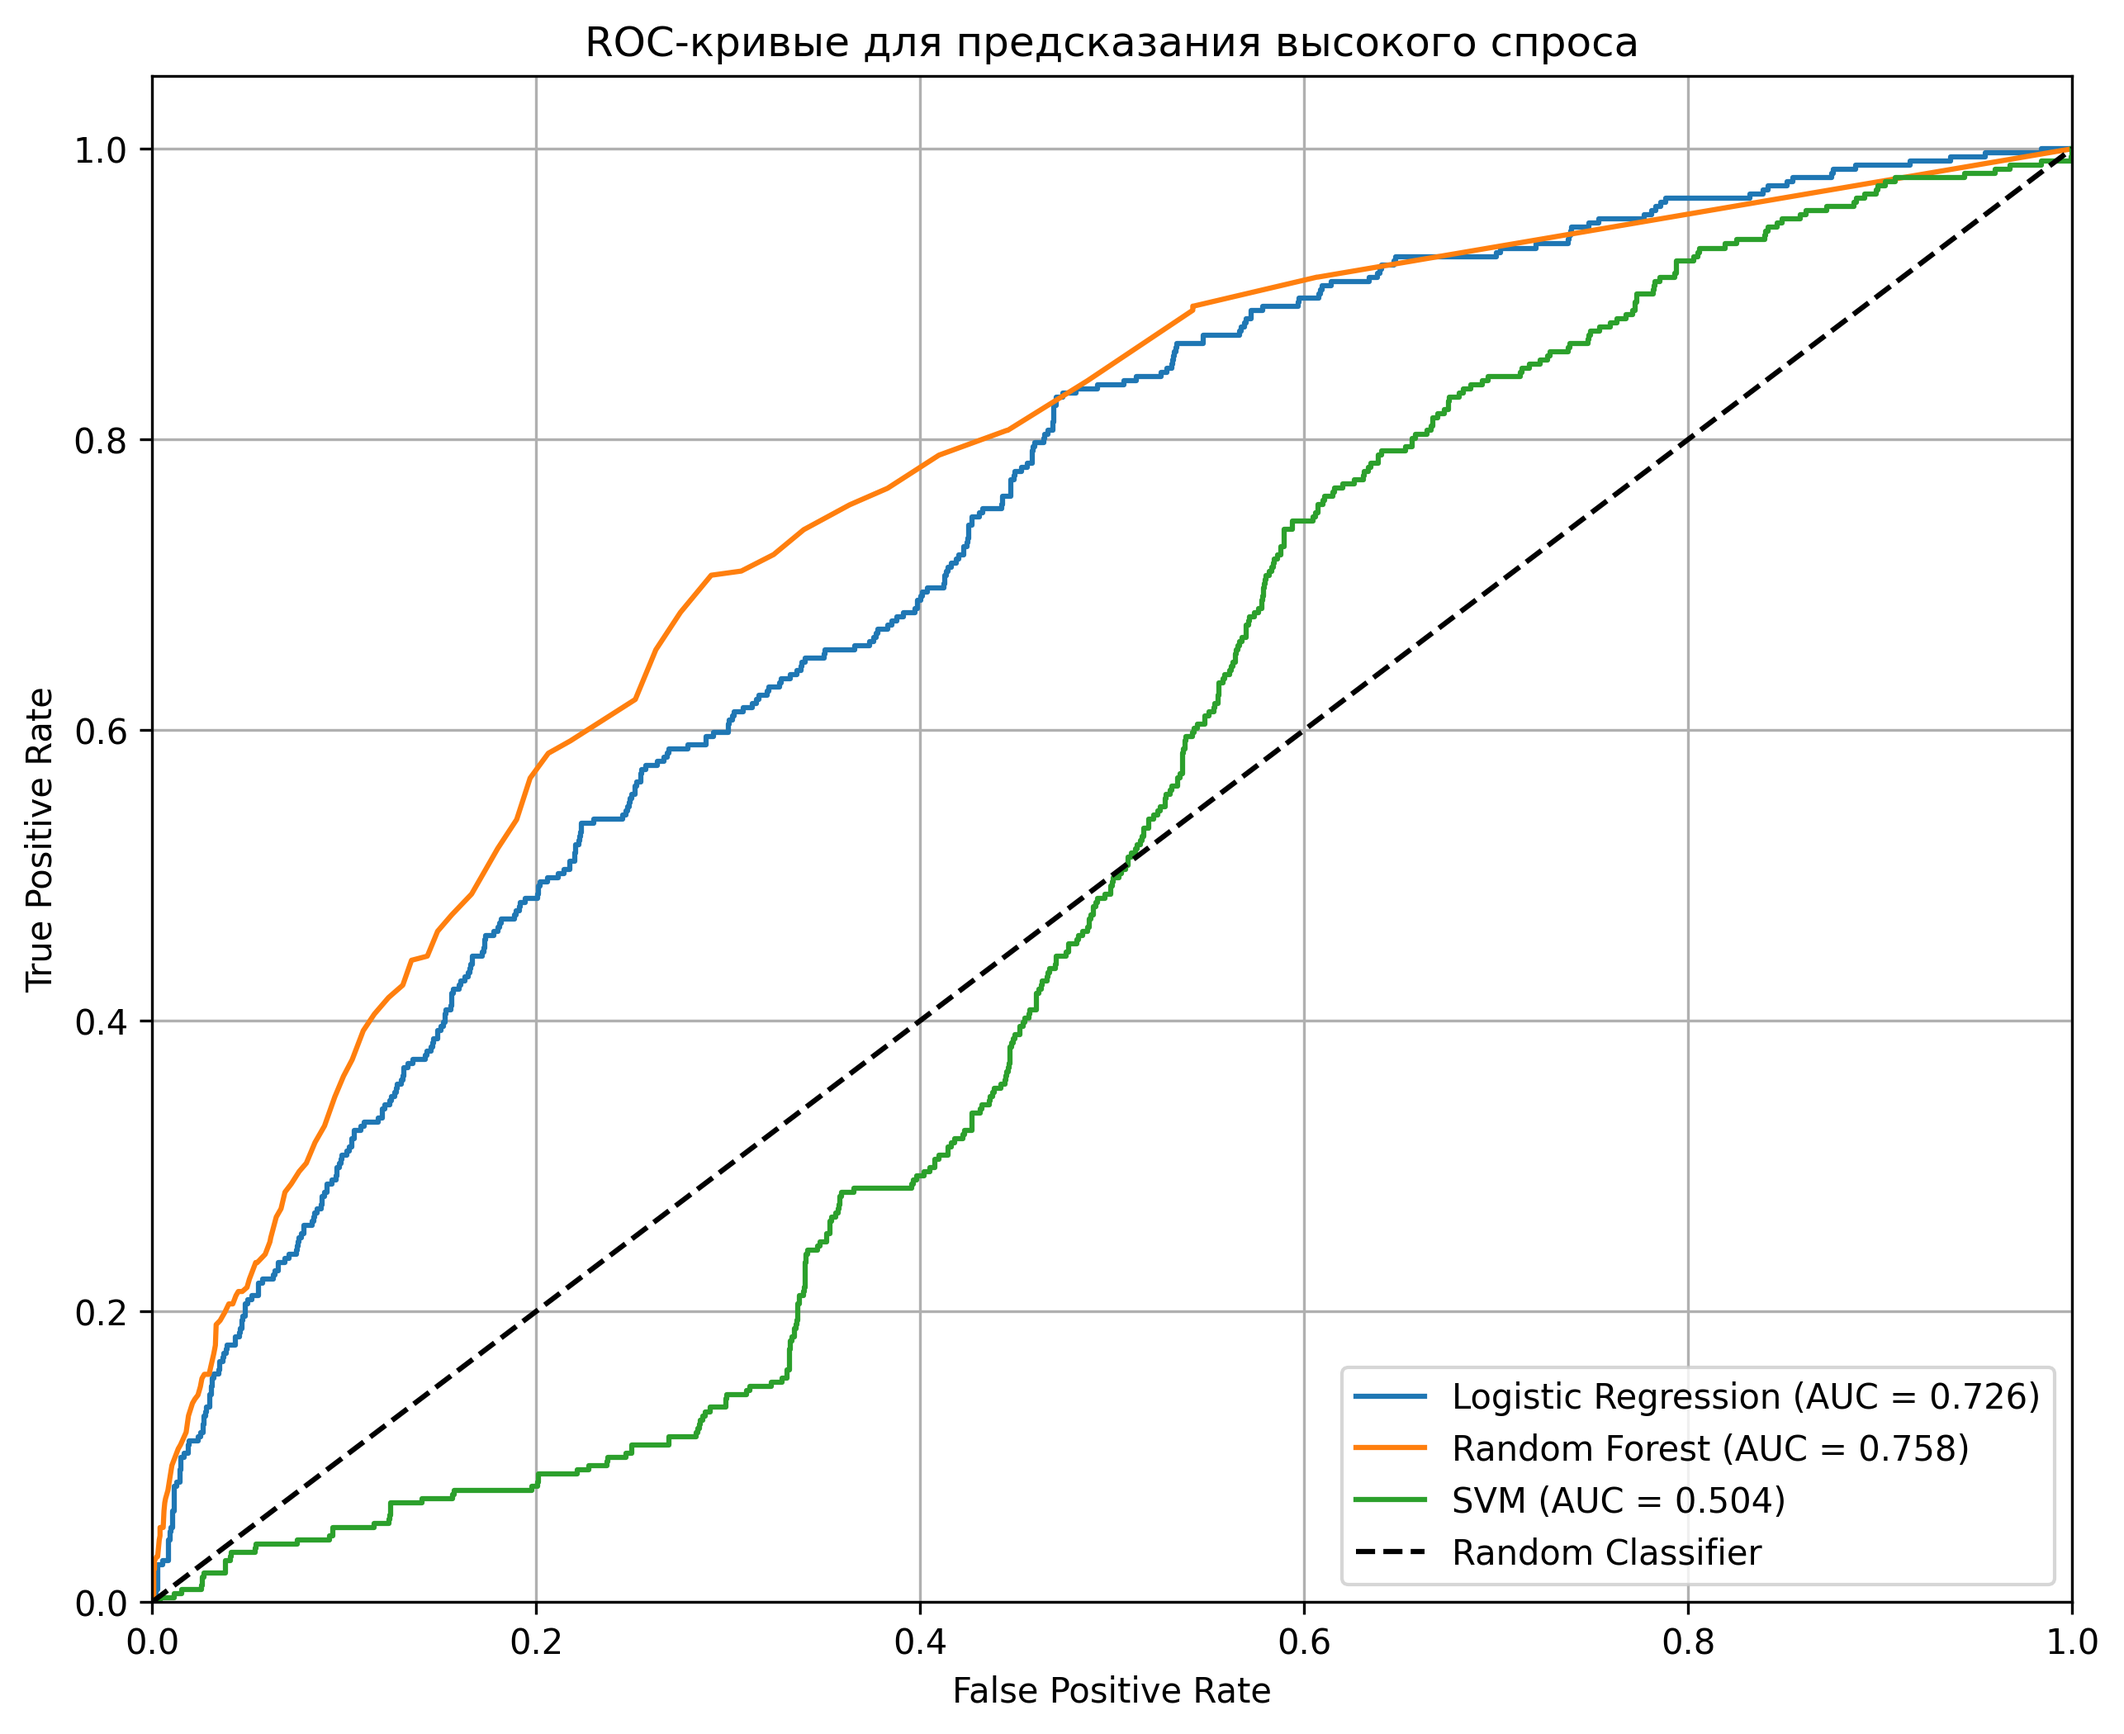
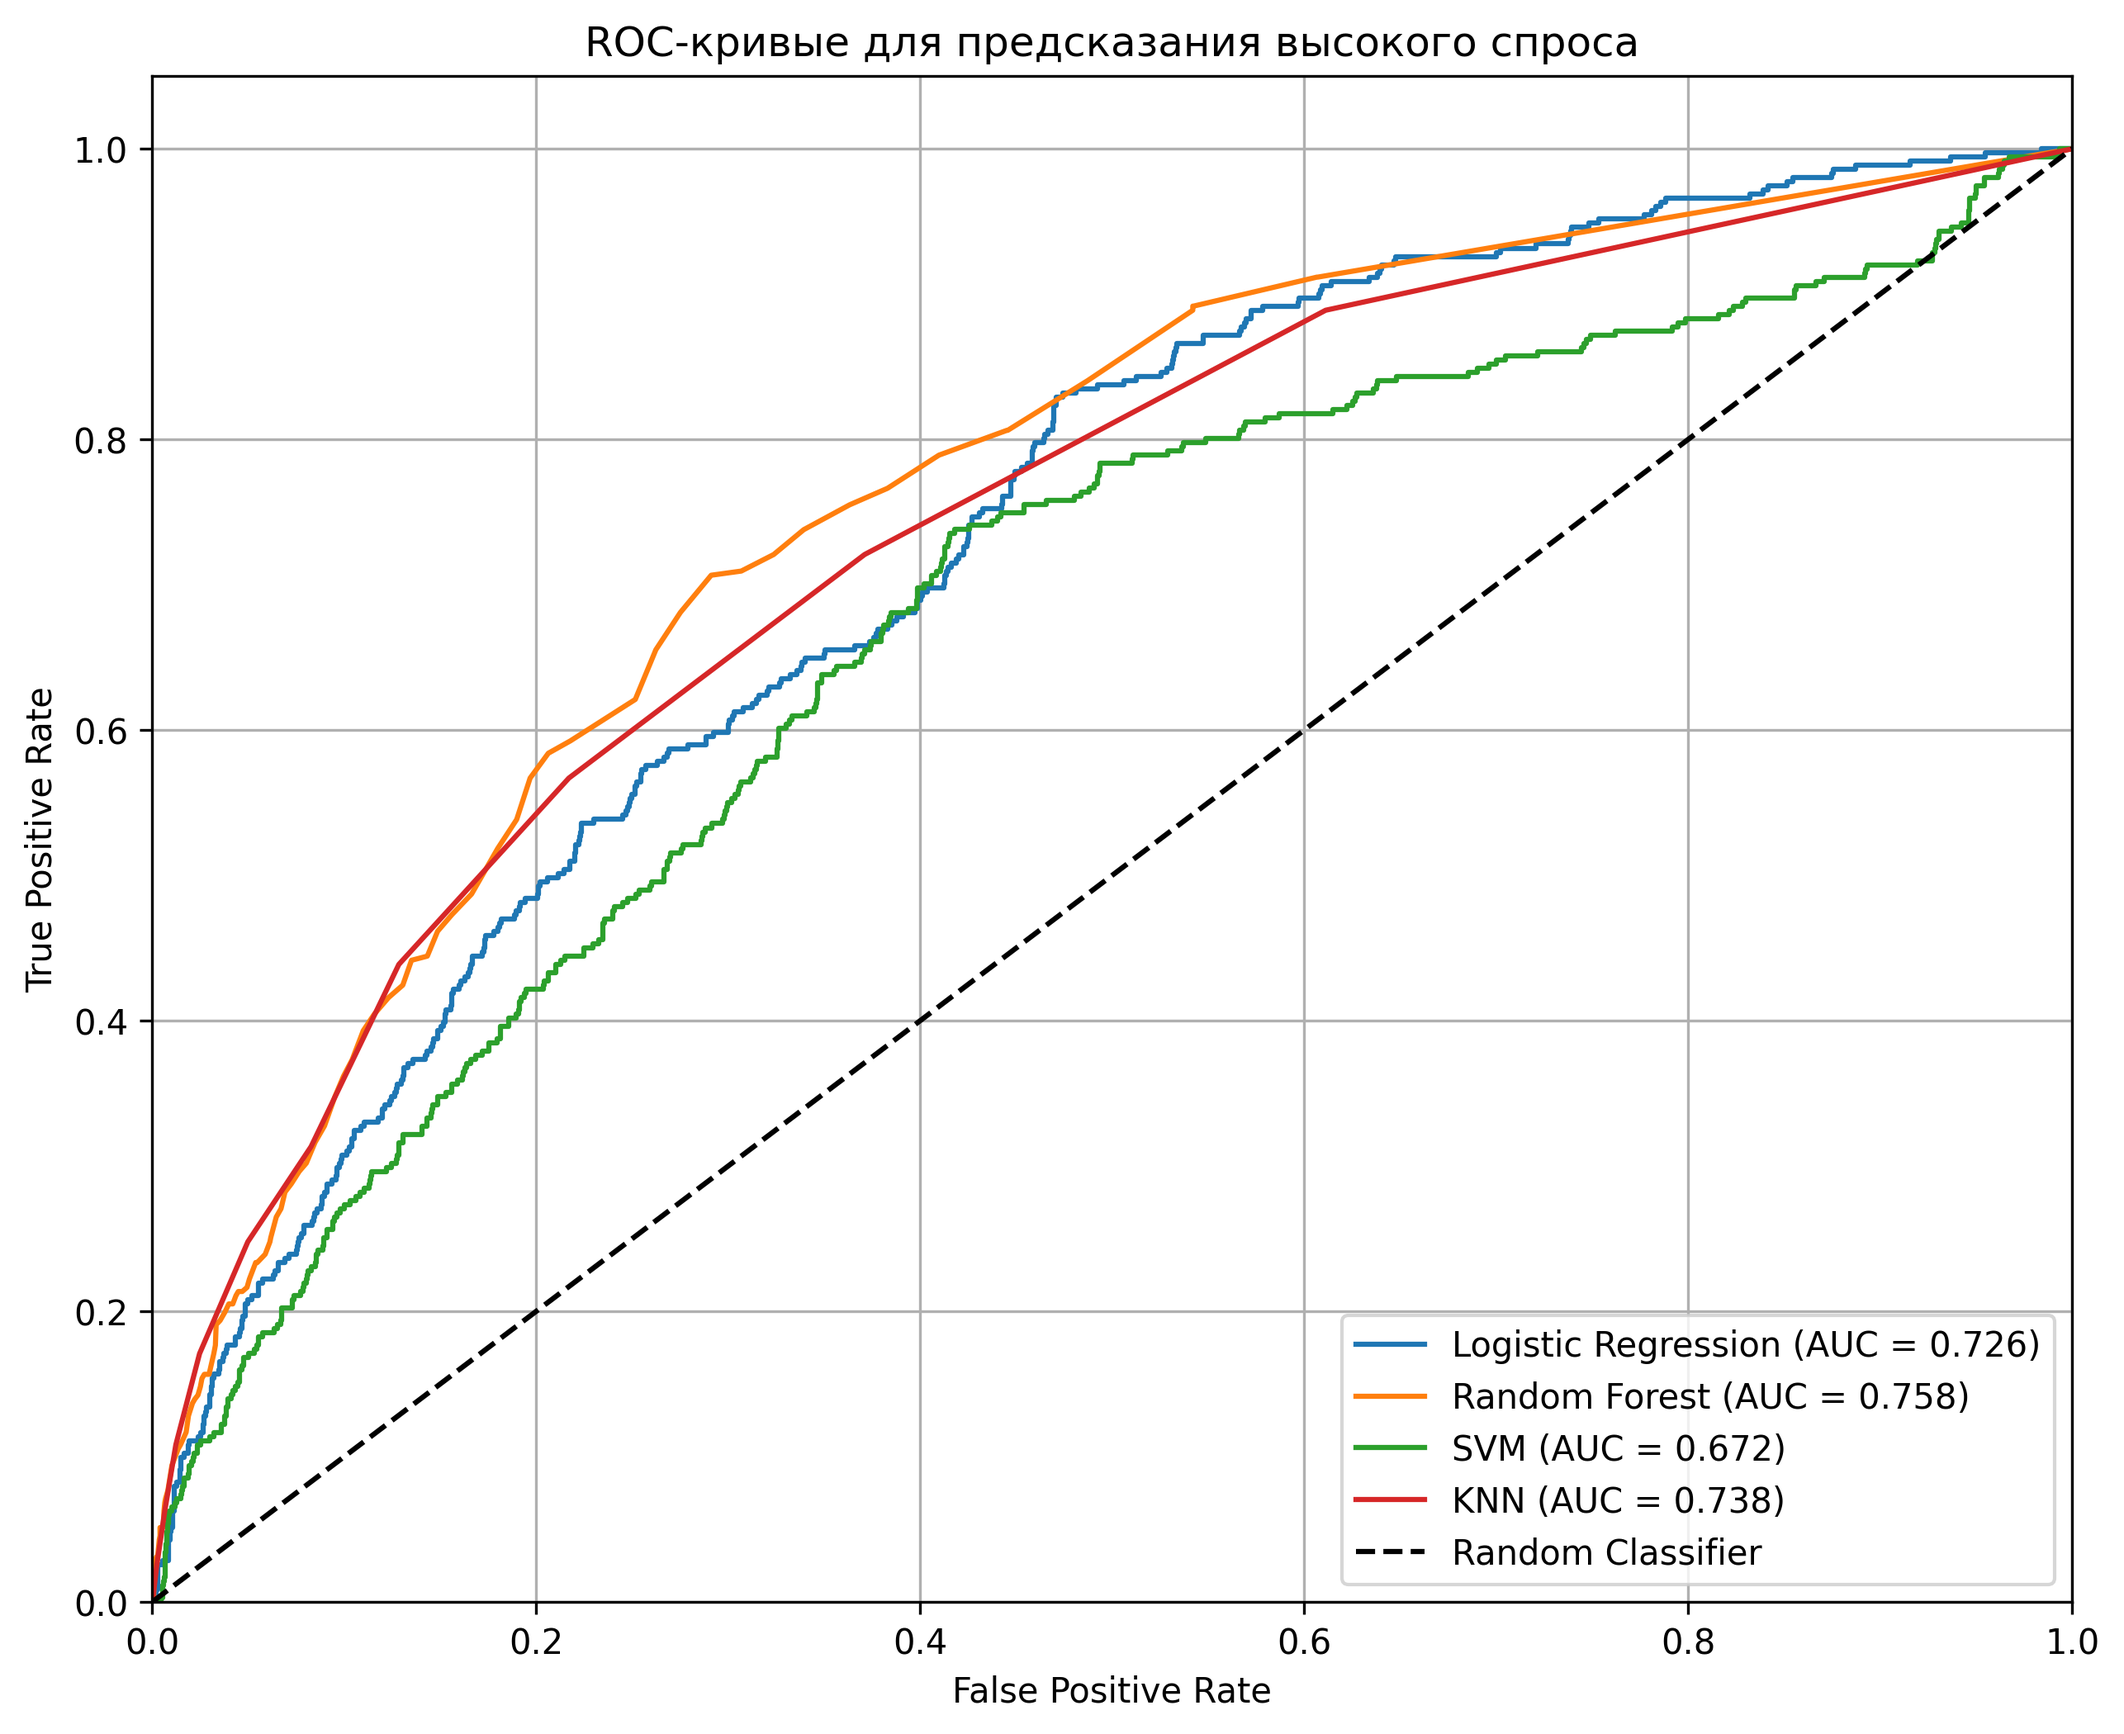
2.2

diff --git a/main.py b/main.py
@@ -41,13 +41,13 @@ def evaluate_model(name, model, X_test, y_test):
 results = {}
 
 # KNN
-knn = KNeighborsClassifier(n_neighbors=5)
+knn = KNeighborsClassifier(n_neighbors=15)
 knn.fit(X_train, y_train)
 results['KNN'] = evaluate_model('KNN', knn, X_test, y_test)
-'''KNN: Accuracy: 0.8633 Precision: 0.8291 Recall: 0.8633 F1-Score: 0.8369'''
+'''KNN: Accuracy: 0.8701 Precision: 0.8305 Recall: 0.8701 F1-Score: 0.8316'''
 
 # SVM
-svm = SVC(kernel='rbf', random_state=42)
+svm = SVC(kernel='linear', C=10, random_state=42)
 svm.fit(X_train, y_train)
 results['SVM'] = evaluate_model('SVM', svm, X_test, y_test)
 '''SVM: Accuracy: 0.8651 Precision: 0.8833 Recall: 0.8651 F1-Score: 0.8025'''
@@ -114,7 +114,8 @@ plt.figure(figsize=(10, 8))
 models_binary = {
     'Logistic Regression': LogisticRegression(random_state=42, max_iter=1000),
     'Random Forest': RandomForestClassifier(n_estimators=100, random_state=42),
-    'SVM': SVC(kernel='rbf', probability=True, random_state=42)
+    'SVM': SVC(kernel='linear', C=10, random_state=42),
+    'KNN': KNeighborsClassifier(n_neighbors=15)
 }
 for name, model in models_binary.items():
     model.fit(X_train, y_train_binary)
